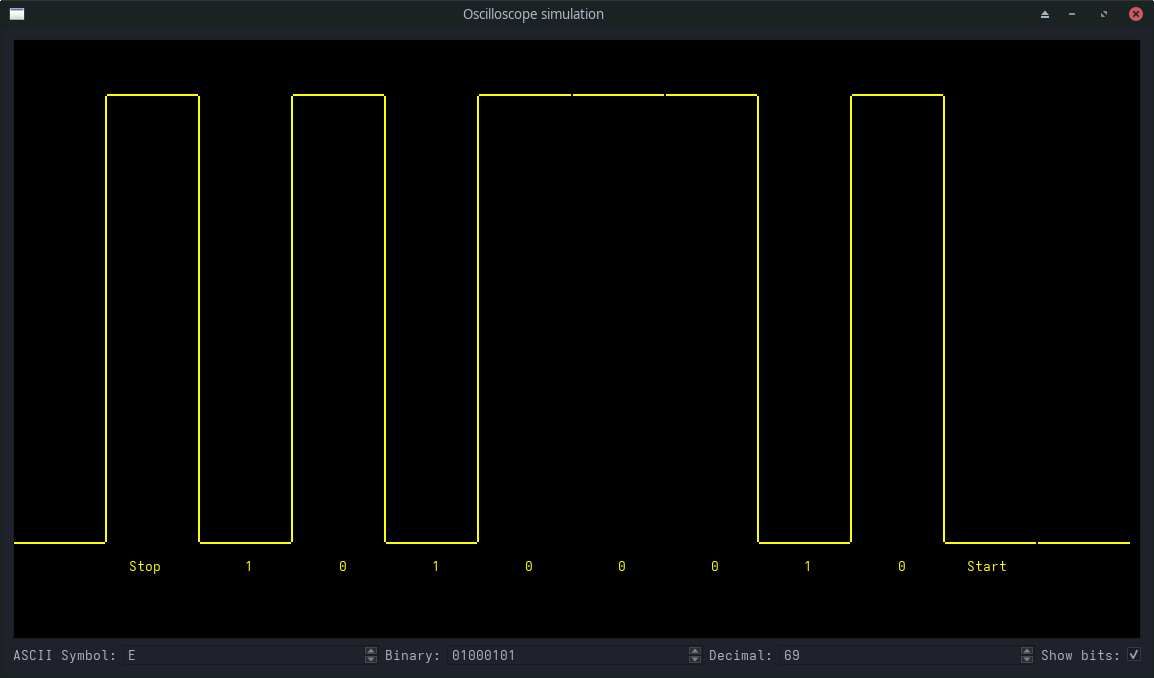
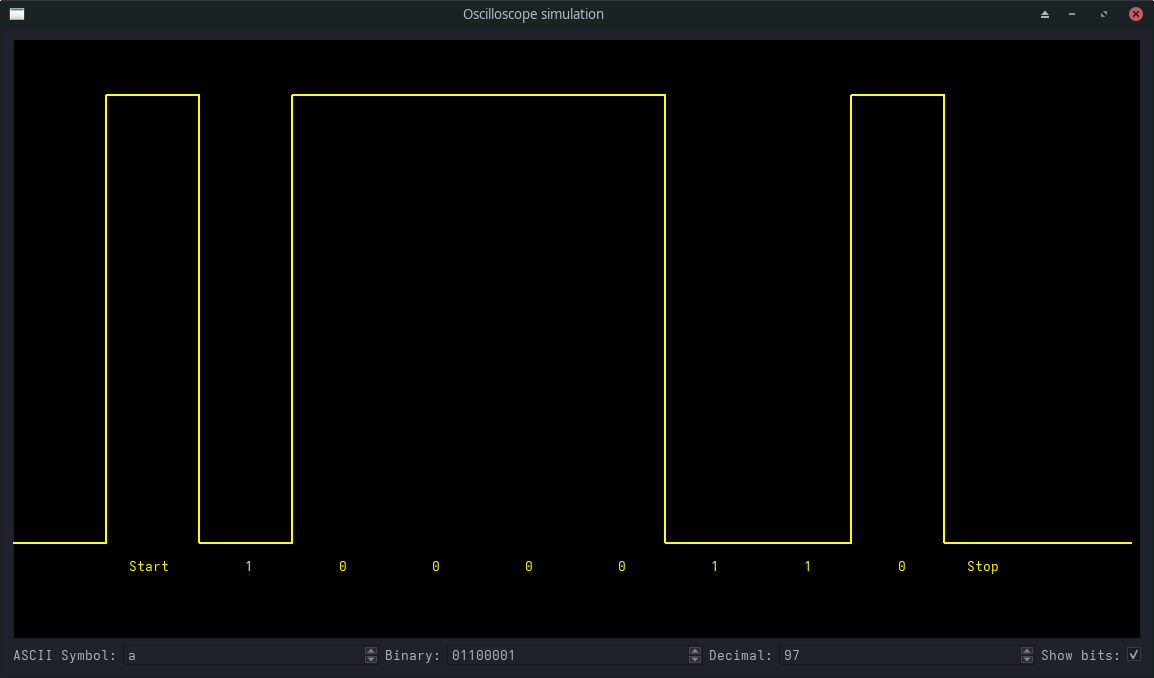
07: Who even invented putting Start at the end?

Changed region(s): [[0.4055, 0.9602, 0.4367, 0.9912]]

diff --git a/renderarea.cpp b/renderarea.cpp
@@ -72,11 +72,11 @@ void RenderArea::paintEvent(QPaintEvent *e){
 
     if(showBits){
         painter.setFont(painter.font());
-        painter.drawText(QPoint(1.25*h_step, canvas.height()-v_offset/2), "Stop");
+        painter.drawText(QPoint(1.25*h_step, canvas.height()-v_offset/2), "Start");
         for(int i = 0; i<8; ++i){
             painter.drawText(QPoint((2.5+i)*h_step, canvas.height()-v_offset/2), bitstring.at(7-i));
         }
-        painter.drawText(QPoint(canvas.width()-1.75*h_step, canvas.height()-v_offset/2), "Start");
+        painter.drawText(QPoint(canvas.width()-1.75*h_step, canvas.height()-v_offset/2), "Stop");
     }
     else{
 
